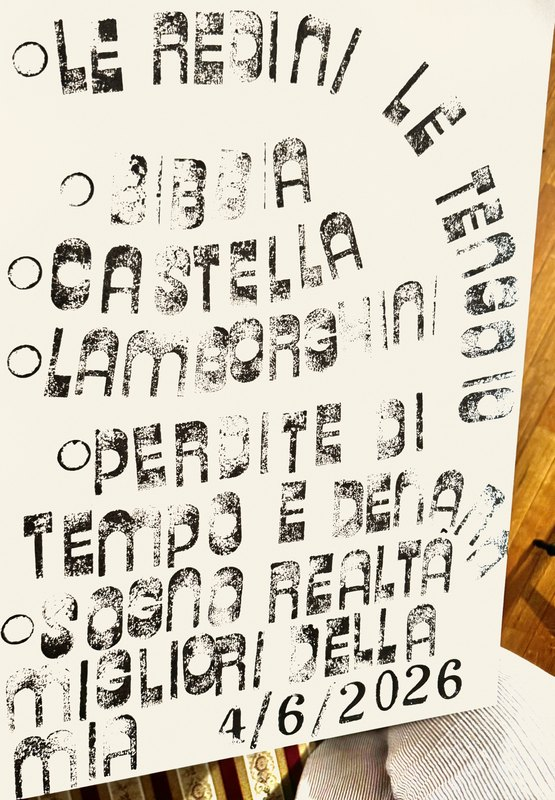
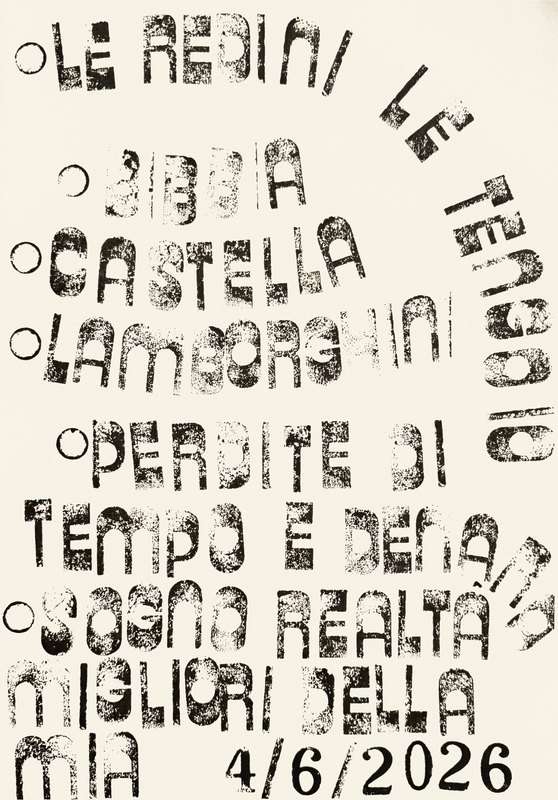
4/6 + 3/6: ritaglio pulito foglio (HSV, no warp, no sfondo) + v5 HD

diff --git a/index.html b/index.html
@@ -662,21 +662,21 @@ section#timbri{ padding-top: clamp(160px, 18vw, 240px); }
 <section class="page" id="timbri">
   <div class="gallery" id="gallery">
     <figure class="work">
-      <div class="work-frame" style="--ratio: 144.0%;">
+      <div class="work-frame" style="--ratio: 143.43%;">
         <img src="foto_definitive/Timbro_2026-06-04.jpg"
              srcset="foto_definitive/thumbs/Timbro_2026-06-04.jpg 800w, foto_definitive/Timbro_2026-06-04.jpg 1800w"
              sizes="(max-width: 720px) 92vw, 720px"
-             width="1250" height="1800"
+             width="1255" height="1800"
              alt="4/6/26" loading="lazy" decoding="async" />
       </div>
       <figcaption class="work-caption"><span class="work-date">4/6/26</span></figcaption>
     </figure>
     <figure class="work">
-      <div class="work-frame" style="--ratio: 78.22%;">
+      <div class="work-frame" style="--ratio: 71.61%;">
         <img src="foto_definitive/Timbro_2026-06-03.jpg"
              srcset="foto_definitive/thumbs/Timbro_2026-06-03.jpg 800w, foto_definitive/Timbro_2026-06-03.jpg 1800w"
              sizes="(max-width: 720px) 92vw, 720px"
-             width="1800" height="1408"
+             width="1800" height="1289"
              alt="3/6/26" loading="lazy" decoding="async" />
       </div>
       <figcaption class="work-caption"><span class="work-date">3/6/26</span></figcaption>
